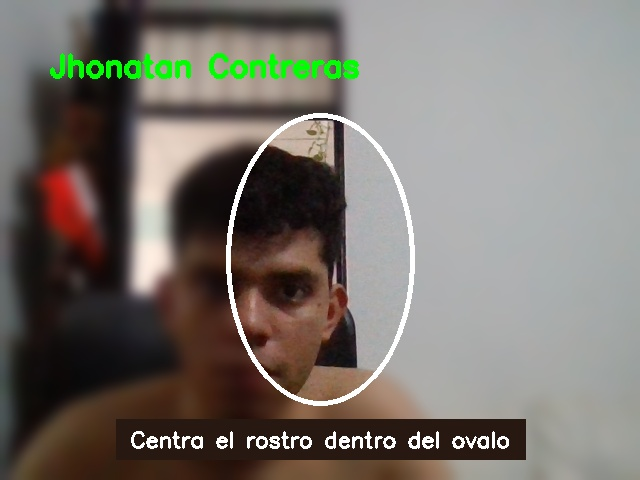
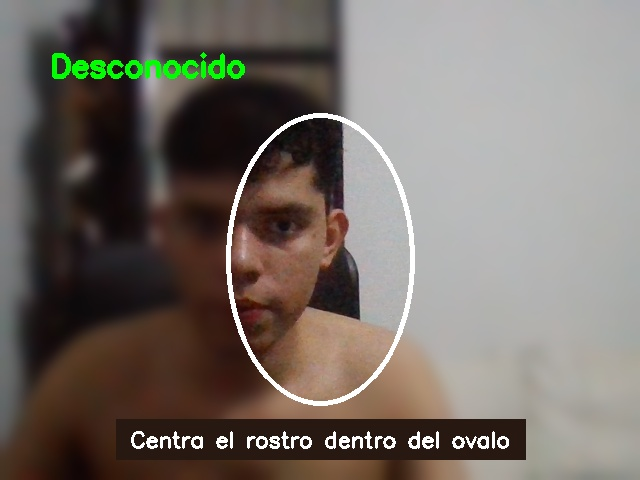
Ultimos cambios

diff --git a/frontend/src/App.vue b/frontend/src/App.vue
@@ -26,6 +26,7 @@ const users = ref([]);
 const secondsLeft = ref(REFRESH_SECONDS);
 const loadingAction = ref(false);
 const recognitionModalOpen = ref(false);
+const recognitionNotice = ref(null);
 const apiStatus = ref("Conectando");
 const loadStatus = ref("Cargando datos...");
 const userStatus = ref("Listo");
@@ -34,6 +35,9 @@ const tableMessage = ref("No hay asistencias registradas.");
 const usersMessage = ref("No hay usuarios registrados.");
 const activePage = ref("dashboard");
 const intervals = [];
+let recognitionPollInterval = null;
+let recognitionNoticeTimer = null;
+let lastRecognitionRecordId = 0;
 
 const pages = {
   dashboard: {
@@ -100,6 +104,57 @@ async function loadAll(manual = false) {
   await Promise.all([loadRecords(manual), loadUsers(manual)]);
 }
 
+function getLatestRecordId(items = records.value) {
+  return items.reduce((latest, record) => Math.max(latest, Number(record.id) || 0), 0);
+}
+
+function showRecognitionNotice(record) {
+  recognitionNotice.value = {
+    title: "Asistencia registrada",
+    message: `${record.nombre ?? "Usuario"}${record.codigo ? ` (${record.codigo})` : ""}`,
+    time: formatTime(record.hora),
+  };
+
+  clearTimeout(recognitionNoticeTimer);
+  recognitionNoticeTimer = setTimeout(() => {
+    recognitionNotice.value = null;
+  }, 4200);
+}
+
+async function checkRecognitionRegistrations() {
+  try {
+    const latestRecords = sortRecentFirst(await getAttendance());
+    const newestRecord = latestRecords[0];
+    const newestId = getLatestRecordId(latestRecords);
+
+    if (newestRecord && newestId > lastRecognitionRecordId) {
+      lastRecognitionRecordId = newestId;
+      records.value = latestRecords;
+      loadStatus.value = `Ultima carga: ${new Date().toLocaleTimeString("es-CO")}`;
+      apiStatus.value = "En linea";
+      showRecognitionNotice(newestRecord);
+    }
+  } catch (error) {
+    console.error("Error revisando registros del reconocimiento:", error);
+  }
+}
+
+function startRecognitionPolling() {
+  stopRecognitionPolling();
+  lastRecognitionRecordId = getLatestRecordId();
+  recognitionPollInterval = setInterval(checkRecognitionRegistrations, 1800);
+}
+
+function stopRecognitionPolling() {
+  if (recognitionPollInterval) {
+    clearInterval(recognitionPollInterval);
+    recognitionPollInterval = null;
+  }
+
+  clearTimeout(recognitionNoticeTimer);
+  recognitionNotice.value = null;
+}
+
 async function handleDeleteUser(user) {
   const name = user?.nombre || "este usuario";
   const confirmed = window.confirm(
@@ -138,12 +193,16 @@ async function handleStartRecognition() {
   const started = await runRecognitionAction(startRecognition, "No se pudo iniciar el reconocimiento");
   if (started) {
     recognitionModalOpen.value = true;
+    startRecognitionPolling();
   }
 }
 
 async function handleStopRecognition() {
   const stopped = await runRecognitionAction(stopRecognition, "No se pudo detener el reconocimiento");
-  if (stopped) recognitionModalOpen.value = false;
+  if (stopped) {
+    recognitionModalOpen.value = false;
+    stopRecognitionPolling();
+  }
 }
 
 async function handleReport() {
@@ -190,6 +249,7 @@ onMounted(() => {
 onBeforeUnmount(() => {
   window.removeEventListener("hashchange", syncPageFromHash);
   intervals.forEach((interval) => clearInterval(interval));
+  stopRecognitionPolling();
   clearCapturedPhotos();
 });
 </script>
@@ -256,6 +316,7 @@ onBeforeUnmount(() => {
       <RecognitionModal
         :open="recognitionModalOpen"
         :stream-url="getRecognitionStreamUrl()"
+        :notice="recognitionNotice"
         :stopping="loadingAction"
         @close="handleStopRecognition"
       />

diff --git a/frontend/src/styles.css b/frontend/src/styles.css
@@ -660,6 +660,49 @@ canvas {
   object-fit: contain;
 }
 
+.recognition-notice {
+  position: absolute;
+  top: 18px;
+  right: 18px;
+  z-index: 3;
+  width: min(320px, calc(100% - 36px));
+  display: grid;
+  gap: 4px;
+  padding: 14px 16px;
+  border: 1px solid rgba(255, 255, 255, 0.18);
+  border-radius: var(--radius);
+  color: white;
+  background: rgba(17, 24, 39, 0.9);
+  box-shadow: 0 18px 36px rgba(15, 23, 42, 0.28);
+}
+
+.recognition-notice span {
+  color: #bbf7d0;
+  font-size: 0.76rem;
+  font-weight: 850;
+  letter-spacing: 0.08em;
+  text-transform: uppercase;
+}
+
+.recognition-notice strong {
+  font-size: 1rem;
+}
+
+.recognition-notice small {
+  color: rgba(255, 255, 255, 0.72);
+}
+
+.notice-pop-enter-active,
+.notice-pop-leave-active {
+  transition: opacity 180ms ease, transform 180ms ease;
+}
+
+.notice-pop-enter-from,
+.notice-pop-leave-to {
+  opacity: 0;
+  transform: translateY(-8px);
+}
+
 @media (max-width: 1120px) {
   .app-shell {
     grid-template-columns: 1fr;

diff --git a/frontend/src/components/RecognitionModal.vue b/frontend/src/components/RecognitionModal.vue
@@ -12,6 +12,10 @@ defineProps({
     type: Boolean,
     default: false,
   },
+  notice: {
+    type: Object,
+    default: null,
+  },
 });
 
 defineEmits(["close"]);
@@ -33,6 +37,13 @@ defineEmits(["close"]);
 
         <div class="recognition-view">
           <img :src="streamUrl" alt="Video de reconocimiento facial" />
+          <Transition name="notice-pop">
+            <div v-if="notice" class="recognition-notice" role="status" aria-live="polite">
+              <span>{{ notice.title }}</span>
+              <strong>{{ notice.message }}</strong>
+              <small>{{ notice.time }}</small>
+            </div>
+          </Transition>
         </div>
       </div>
     </div>
